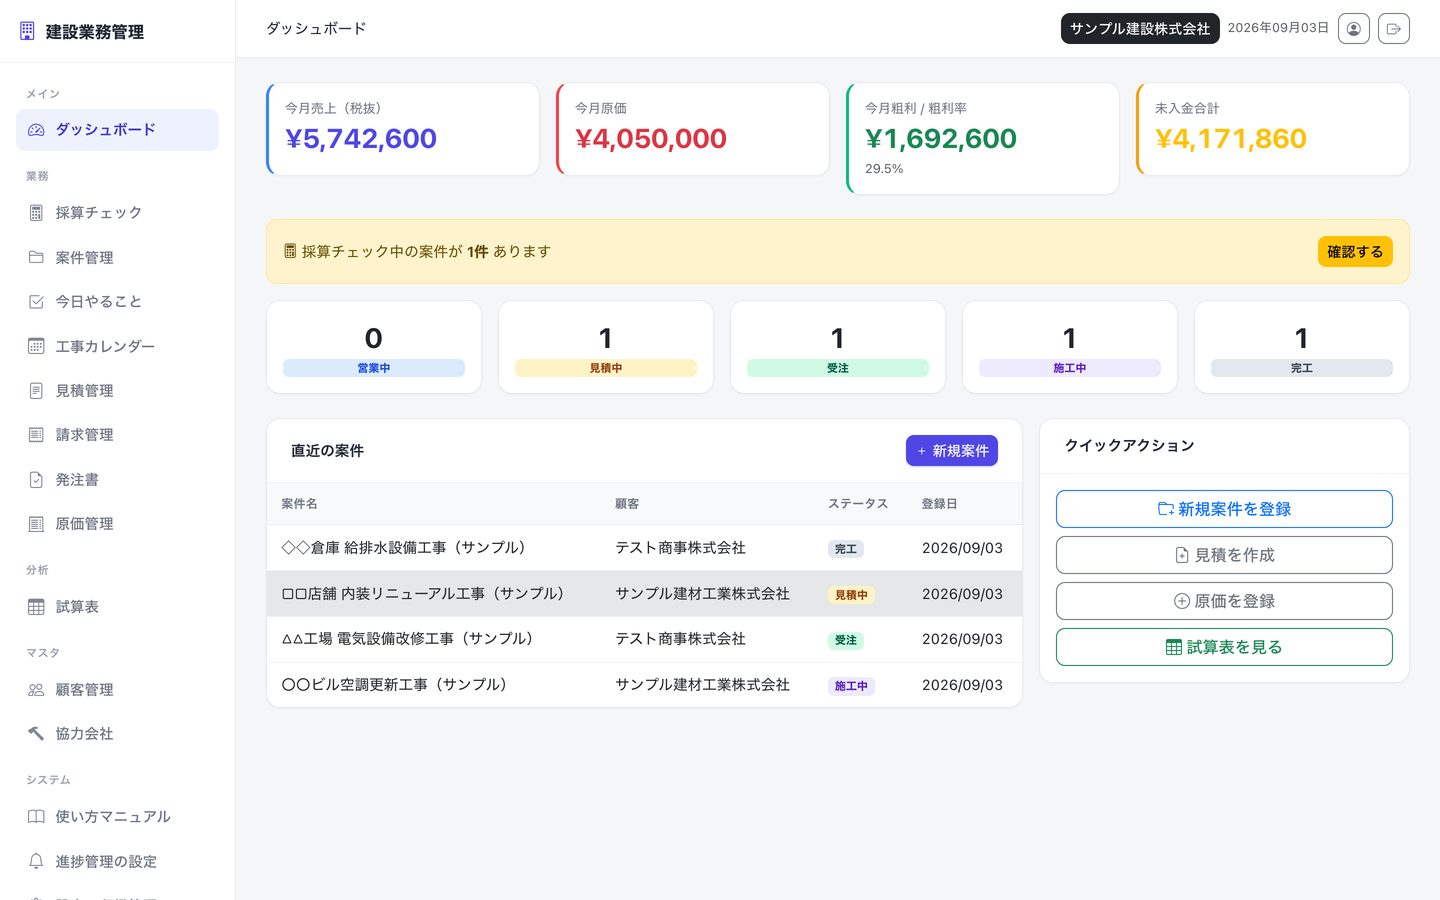
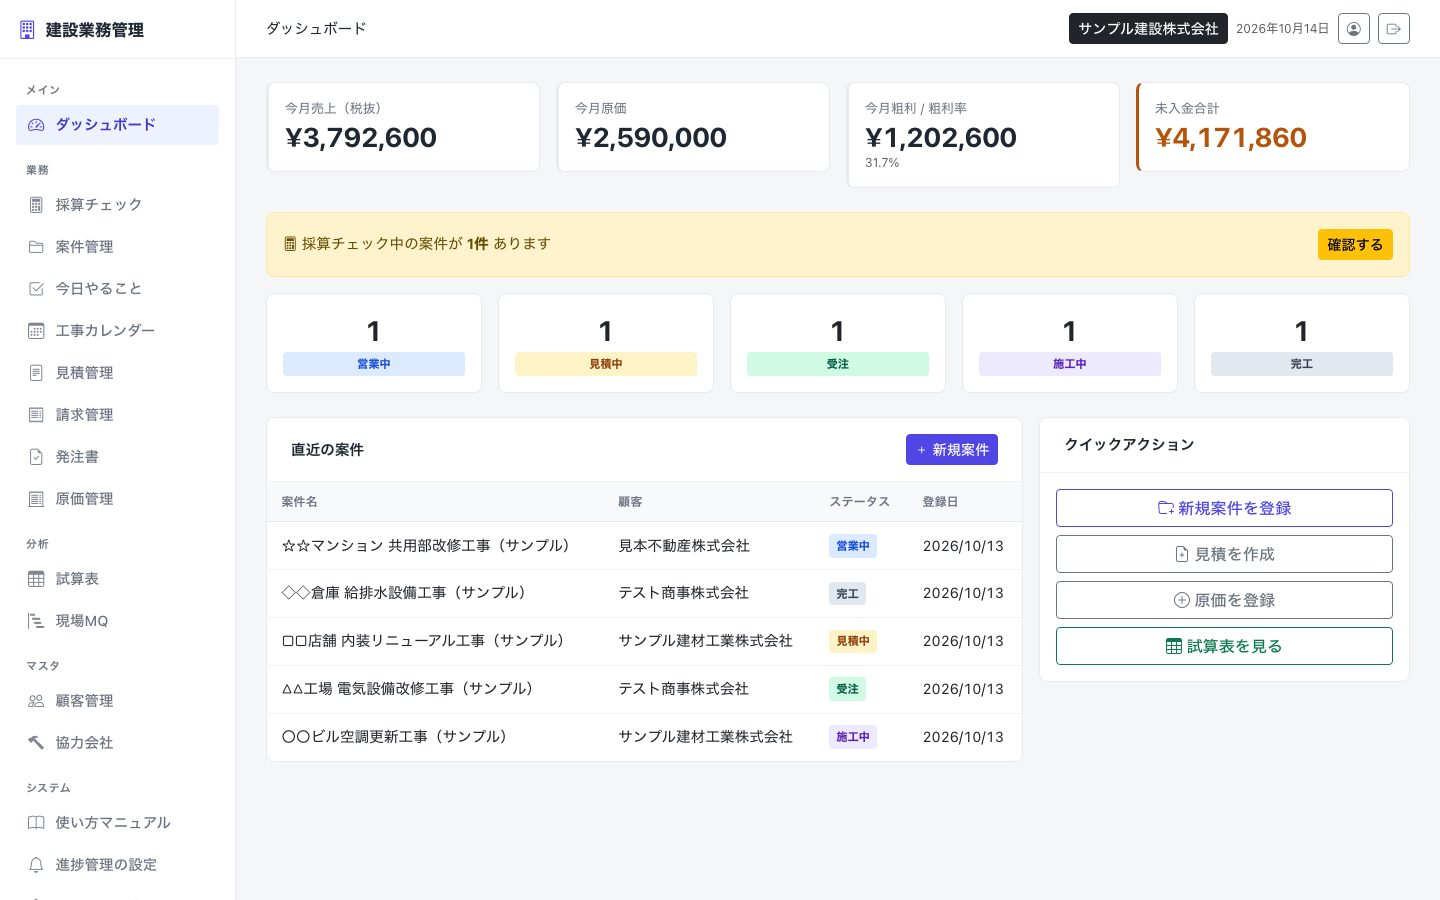
建設業務管理の画面画像を最新版のアプリで撮り直し（サンプルデータ・現場MQ追加後の画面）
Claude-Session: https://claude.ai/code/session_01UkovhdyzDacT5BVmd6GTKQ

diff --git a/systems/construction.html b/systems/construction.html
@@ -268,7 +268,7 @@ section,article[id]{scroll-margin-top:105px}.dark{color:var(--paper)}
 .screen .screen__image img{position:absolute;max-width:none;width:calc(var(--source-w) / var(--crop-w) * 100%);height:auto;left:calc(var(--crop-x) / var(--crop-w) * -100%);top:calc(var(--crop-y) / var(--crop-h) * -100%);transform:none!important}
 .screen--invoice-dash{--source-w:1440;--crop-w:1200;--crop-h:378;--crop-x:240;--crop-y:0}
 .screen--invoice-print{--source-w:1440;--crop-w:886;--crop-h:754;--crop-x:277;--crop-y:92}
-.screen--project{--source-w:1440;--crop-w:1180;--crop-h:808;--crop-x:250;--crop-y:58}
+.screen--project{--source-w:1440;--crop-w:1180;--crop-h:800;--crop-x:250;--crop-y:58}
 .screen--construction-dash{--source-w:1440;--crop-w:1200;--crop-h:720;--crop-x:240;--crop-y:0}
 .screen--home{--source-w:1180;--crop-w:1060;--crop-h:280;--crop-x:80;--crop-y:0}
 .screen--chart{--source-w:1180;--crop-w:1100;--crop-h:567;--crop-x:60;--crop-y:0}
@@ -404,12 +404,12 @@ section,article[id]{scroll-margin-top:105px}.dark{color:var(--paper)}
 <main id="main">
 <section class="build-hero dark" id="top" data-sec><div class="page-topline eyebrow"><a href="../system.html">← Systems / 02</a><span>Construction ERP — NI GROUP</span></div>
 <div class="build-heading"><div><p class="eyebrow accent">One project. Every operation.</p><h1 data-type>建設業務管理<small>建設業務管理システム / CONSTRUCTION ERP</small></h1></div><p class="build-heading__aside">現場の利益を、<br>締める前に。</p></div>
-<div class="build-hero__screen"><figure class="screen screen--project"><a href="../assets/img/systems/const-project.jpg" data-screen aria-label="01 / 案件詳細・工程表を拡大"><span class="screen__bar"><span>01 / 案件詳細・工程表</span><span>VIEW FULL ↗</span></span><span class="screen__image" data-develop="left"><img src="../assets/img/systems/const-project.jpg" alt="01 / 案件詳細・工程表（実際の画面・サンプルデータ）" width="1440" height="872" fetchpriority="high" decoding="async"><span class="screen__wash" aria-hidden="true"></span></span></a></figure></div>
+<div class="build-hero__screen"><figure class="screen screen--project"><a href="../assets/img/systems/const-project.jpg?v=20261014" data-screen aria-label="01 / 案件詳細・工程表を拡大"><span class="screen__bar"><span>01 / 案件詳細・工程表</span><span>VIEW FULL ↗</span></span><span class="screen__image" data-develop="left"><img src="../assets/img/systems/const-project.jpg?v=20261014" alt="01 / 案件詳細・工程表（実際の画面・サンプルデータ）" width="1440" height="862" fetchpriority="high" decoding="async"><span class="screen__wash" aria-hidden="true"></span></span></a></figure></div>
 <div class="build-hero__base"><p class="copy">見積・発注・請求・原価を、現場単位でひとつに。<br>発注と請求を入れた時点で、現場ごとの残り利益が見えます。</p><div><p class="caption">ACTUAL SCREEN / SAMPLE DATA<br>実際の画面。画像を押すと全体を表示。</p><a class="cta" href="../index.html#contact">このシステムを相談する <span class="ar">→</span></a></div></div>
 </section>
 <section class="build-site" id="project" data-sec data-theme="light"><div class="build-site__head"><p class="sl">01 / Project structure</p><h2 class="section-title" data-type>現場を軸に、<br>数字も、段取りも。</h2></div>
 <div class="project-spine"><p class="project-spine__root"><small>PROJECT / すべての起点</small>現場（案件）</p><div class="project-spine__branches" aria-label="現場に紐づく情報"><span>見積<small>ESTIMATE</small></span><span>発注<small>ORDER</small></span><span>請求<small>BILLING</small></span><span>原価<small>COST</small></span><span>粗利<small>GROSS PROFIT</small></span></div></div>
-<div class="build-site__detail"><figure class="screen screen--construction-dash"><a href="../assets/img/systems/const-dashboard.jpg" data-screen aria-label="02 / ダッシュボード・全現場を拡大"><span class="screen__bar"><span>02 / ダッシュボード・全現場</span><span>VIEW FULL ↗</span></span><span class="screen__image" data-develop="left"><img src="../assets/img/systems/const-dashboard.jpg" alt="02 / ダッシュボード・全現場（実際の画面・サンプルデータ）" width="1440" height="900" loading="lazy" decoding="async"><span class="screen__wash" aria-hidden="true"></span></span></a><figcaption class="caption">ACTUAL SCREEN — 表示はサンプルデータ。画像を押すと全体を表示。</figcaption></figure><div><p class="feature-code">COST → PROFIT</p><h3>入れるたびに、<br>粗利が更新される。</h3><p class="copy muted">材料・外注・経費を積み上げ、現場ごとの原価を管理。請求は、出来高・完成に合わせて。</p><ul class="build-site__list"><li>工程表と工事カレンダーで、現場の段取りと全現場の予定を確認。</li><li>協力会社は自分で登録申請。数字は試算表まで自動で積み上がります。</li></ul></div></div></section>
+<div class="build-site__detail"><figure class="screen screen--construction-dash"><a href="../assets/img/systems/const-dashboard.jpg?v=20261014" data-screen aria-label="02 / ダッシュボード・全現場を拡大"><span class="screen__bar"><span>02 / ダッシュボード・全現場</span><span>VIEW FULL ↗</span></span><span class="screen__image" data-develop="left"><img src="../assets/img/systems/const-dashboard.jpg?v=20261014" alt="02 / ダッシュボード・全現場（実際の画面・サンプルデータ）" width="1440" height="900" loading="lazy" decoding="async"><span class="screen__wash" aria-hidden="true"></span></span></a><figcaption class="caption">ACTUAL SCREEN — 表示はサンプルデータ。画像を押すと全体を表示。</figcaption></figure><div><p class="feature-code">COST → PROFIT</p><h3>入れるたびに、<br>粗利が更新される。</h3><p class="copy muted">材料・外注・経費を積み上げ、現場ごとの原価を管理。請求は、出来高・完成に合わせて。</p><ul class="build-site__list"><li>工程表と工事カレンダーで、現場の段取りと全現場の予定を確認。</li><li>協力会社は自分で登録申請。数字は試算表まで自動で積み上がります。</li></ul></div></div></section>
 <section class="build-operations dark" id="operations" data-sec><div class="build-operations__head"><div><p class="sl">02 / Field operations</p><h2 class="section-title" data-type>現場が動く。<br>事務も、止めない。</h2></div><p class="copy">自社の建設事業で使うからこそ、<br>書類の引き継ぎから<br>止まっている案件の確認まで。</p></div>
 <article class="build-line"><p class="build-line__number" aria-hidden="true">01<small>LINE / FOLLOW-UP</small></p><div><h3>「今日やること」を、<br>毎朝LINEで。</h3><p class="copy">現場のLINEグループを紐付けると、止まっている案件だけ毎朝LINEで知らせます。取引先のグループには送らない設計です。</p><div class="build-line__path" aria-label="LINE連携の流れ"><span>現場グループを紐付け</span><b>→</b><span>止まっている案件を確認</span><b>→</b><span>毎朝お知らせ</span></div></div></article>
 <div class="build-small"><article><p class="feature-code">02 / PDF READING</p><h3>見積PDFを、<br>大項目と明細へ。</h3><p class="copy">AI読み取りで自動構造化。読めないときは、従来の解析に自動で切り替わります。見積の内訳は、そのまま協力会社への発注に引き継げます。</p></article><article><p class="feature-code">03 / DOCUMENTS</p><h3>発注書・注文書・請書を、<br>ひとつのPDFに。</h3><p class="copy">3つの帳票をまとめて印刷・保存。現場の書類を、個別につくり直す手間を減らします。</p></article></div></section>

diff --git a/system.html b/system.html
@@ -280,7 +280,7 @@ ol.process-diagram{--process-columns:4;display:grid;grid-template-columns:repeat
 .screen .screen__image img{position:absolute;max-width:none;width:calc(var(--source-w) / var(--crop-w) * 100%);height:auto;left:calc(var(--crop-x) / var(--crop-w) * -100%);top:calc(var(--crop-y) / var(--crop-h) * -100%);transform:none!important}
 .screen--invoice-dash{--source-w:1440;--crop-w:1200;--crop-h:378;--crop-x:240;--crop-y:0}
 .screen--invoice-print{--source-w:1440;--crop-w:886;--crop-h:754;--crop-x:277;--crop-y:92}
-.screen--project{--source-w:1440;--crop-w:1180;--crop-h:808;--crop-x:250;--crop-y:58}
+.screen--project{--source-w:1440;--crop-w:1180;--crop-h:800;--crop-x:250;--crop-y:58}
 .screen--construction-dash{--source-w:1440;--crop-w:1200;--crop-h:720;--crop-x:240;--crop-y:0}
 .screen--home{--source-w:1180;--crop-w:1060;--crop-h:280;--crop-x:80;--crop-y:0}
 .screen--chart{--source-w:1180;--crop-w:1100;--crop-h:567;--crop-x:60;--crop-y:0}
@@ -359,7 +359,7 @@ ol.process-diagram{--process-columns:4;display:grid;grid-template-columns:repeat
 </article>
 <article class="construction dark" id="construction" data-sec>
  <div class="construction__head eyebrow"><span>02 / Construction ERP</span><span>In use / 自社の建設事業で</span></div>
- <div class="construction__grid"><div class="construction__visual"><figure class="screen screen--project"><a href="assets/img/systems/const-project.jpg" data-screen aria-label="01 / 案件詳細・工程表を拡大"><span class="screen__bar"><span>01 / 案件詳細・工程表</span><span>VIEW FULL ↗</span></span><span class="screen__image" data-develop><img src="assets/img/systems/const-project.jpg" alt="01 / 案件詳細・工程表（実際の画面・サンプルデータ）" loading="lazy" decoding="async"></span></a></figure><figure class="screen screen--construction-dash"><a href="assets/img/systems/const-dashboard.jpg" data-screen aria-label="02 / ダッシュボード・全現場を拡大"><span class="screen__bar"><span>02 / ダッシュボード・全現場</span><span>VIEW FULL ↗</span></span><span class="screen__image" data-develop><img src="assets/img/systems/const-dashboard.jpg" alt="02 / ダッシュボード・全現場（実際の画面・サンプルデータ）" loading="lazy" decoding="async"></span></a></figure><p class="caption" style="margin-top:22px">ACTUAL SCREENS — 実際の画面（サンプルデータ）</p></div><div><h2>現場の利益を、<br>締める前に知る。</h2><p class="product-name">建設業務管理システム / CONSTRUCTION ERP</p><p class="copy">見積・発注・請求・原価を、現場単位でひとつに。建設業の商流に合わせて設計した、現場を知る会社ならではの業務基盤。</p><ul class="features" data-rows><li><b>01</b><div><span>案件管理・原価の積み上げ</span><small>材料・外注・経費を入れるたびに、粗利を更新。</small></div></li><li><b>02</b><div><span>工程表と工事カレンダー</span><small>現場ごとの段取りと、全現場の予定を同じ画面で。</small></div></li><li><b>03</b><div><span>見積PDFのAI読み取り</span><small>大項目と明細に自動で構造化。</small></div></li><li><b>04</b><div><span>今日やること / LINE連携</span><small>止まっている案件だけ毎朝通知。取引先のグループには送らない設計。</small></div></li><li><b>05</b><div><span>採算チェック・試算表</span><small>受注前の想定原価から、粗利率で判定。</small></div></li></ul><a class="text-link" href="systems/construction.html">建設業務管理を詳しく見る <span>↗</span></a></div></div>
+ <div class="construction__grid"><div class="construction__visual"><figure class="screen screen--project"><a href="assets/img/systems/const-project.jpg?v=20261014" data-screen aria-label="01 / 案件詳細・工程表を拡大"><span class="screen__bar"><span>01 / 案件詳細・工程表</span><span>VIEW FULL ↗</span></span><span class="screen__image" data-develop><img src="assets/img/systems/const-project.jpg?v=20261014" alt="01 / 案件詳細・工程表（実際の画面・サンプルデータ）" loading="lazy" decoding="async"></span></a></figure><figure class="screen screen--construction-dash"><a href="assets/img/systems/const-dashboard.jpg?v=20261014" data-screen aria-label="02 / ダッシュボード・全現場を拡大"><span class="screen__bar"><span>02 / ダッシュボード・全現場</span><span>VIEW FULL ↗</span></span><span class="screen__image" data-develop><img src="assets/img/systems/const-dashboard.jpg?v=20261014" alt="02 / ダッシュボード・全現場（実際の画面・サンプルデータ）" loading="lazy" decoding="async"></span></a></figure><p class="caption" style="margin-top:22px">ACTUAL SCREENS — 実際の画面（サンプルデータ）</p></div><div><h2>現場の利益を、<br>締める前に知る。</h2><p class="product-name">建設業務管理システム / CONSTRUCTION ERP</p><p class="copy">見積・発注・請求・原価を、現場単位でひとつに。建設業の商流に合わせて設計した、現場を知る会社ならではの業務基盤。</p><ul class="features" data-rows><li><b>01</b><div><span>案件管理・原価の積み上げ</span><small>材料・外注・経費を入れるたびに、粗利を更新。</small></div></li><li><b>02</b><div><span>工程表と工事カレンダー</span><small>現場ごとの段取りと、全現場の予定を同じ画面で。</small></div></li><li><b>03</b><div><span>見積PDFのAI読み取り</span><small>大項目と明細に自動で構造化。</small></div></li><li><b>04</b><div><span>今日やること / LINE連携</span><small>止まっている案件だけ毎朝通知。取引先のグループには送らない設計。</small></div></li><li><b>05</b><div><span>採算チェック・試算表</span><small>受注前の想定原価から、粗利率で判定。</small></div></li></ul><a class="text-link" href="systems/construction.html">建設業務管理を詳しく見る <span>↗</span></a></div></div>
  <div class="construction__price"><p class="construction__aside">見積の内訳は、そのまま発注へ。<br>現場に紐づく数字を、ひと続きに。</p><div class="pricing"><div class="rule" data-draw></div><p class="eyebrow accent">Monthly plan</p><div class="price"><strong>30,000</strong><span>円 / 月（税込）</span></div><p class="annual">年額 300,000円（税込）</p><p>初期費用なし。<br>クレジットカード・銀行振込に対応。</p></div></div>
 </article>
 <article class="compass" id="compass" data-sec data-theme="light">
